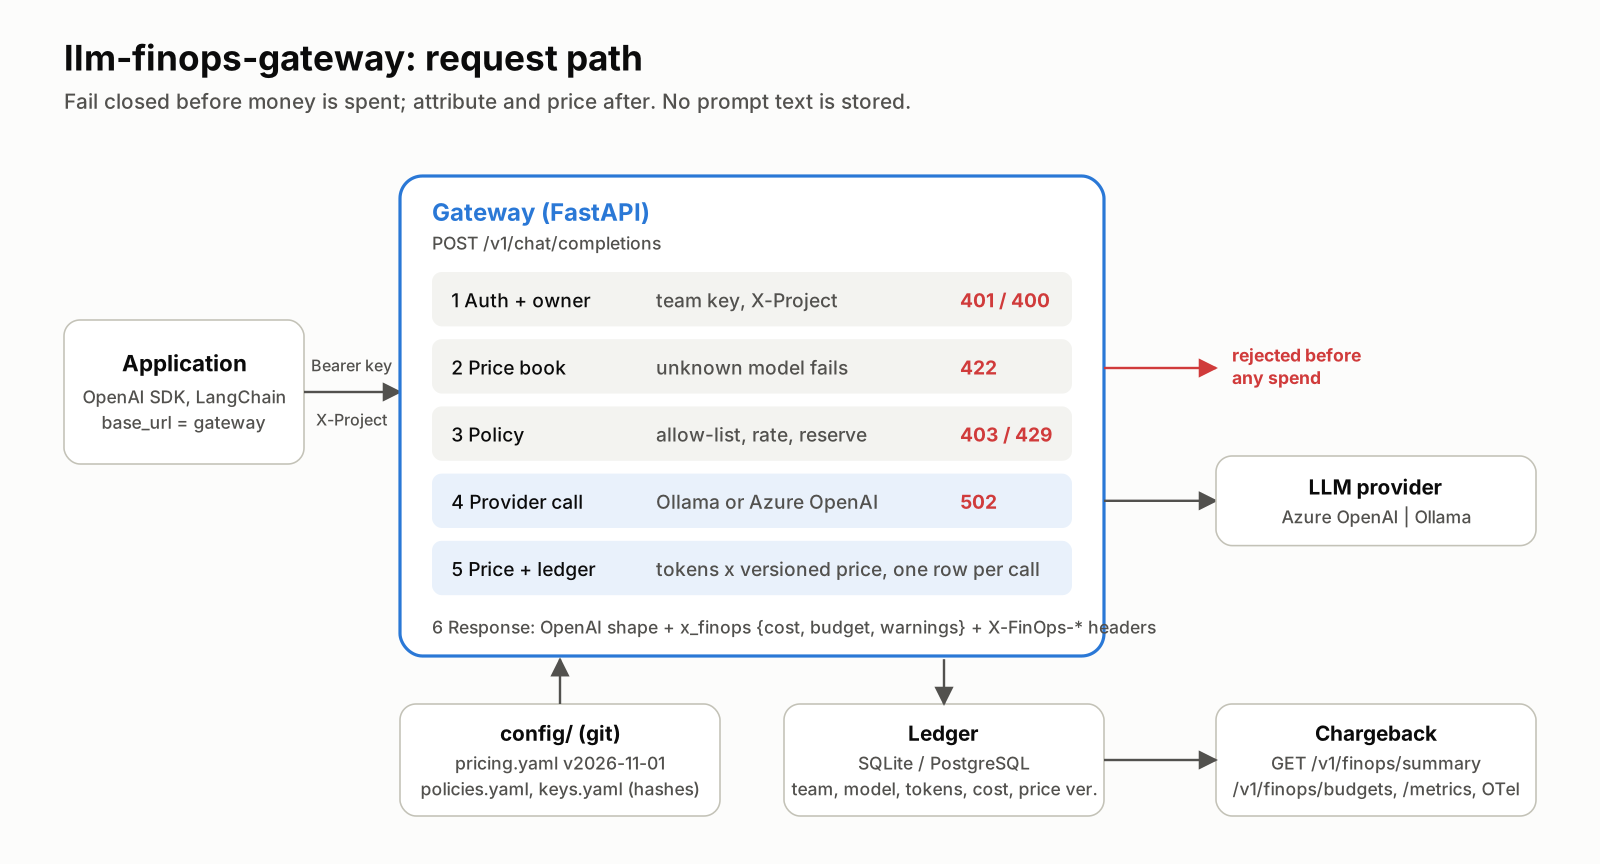
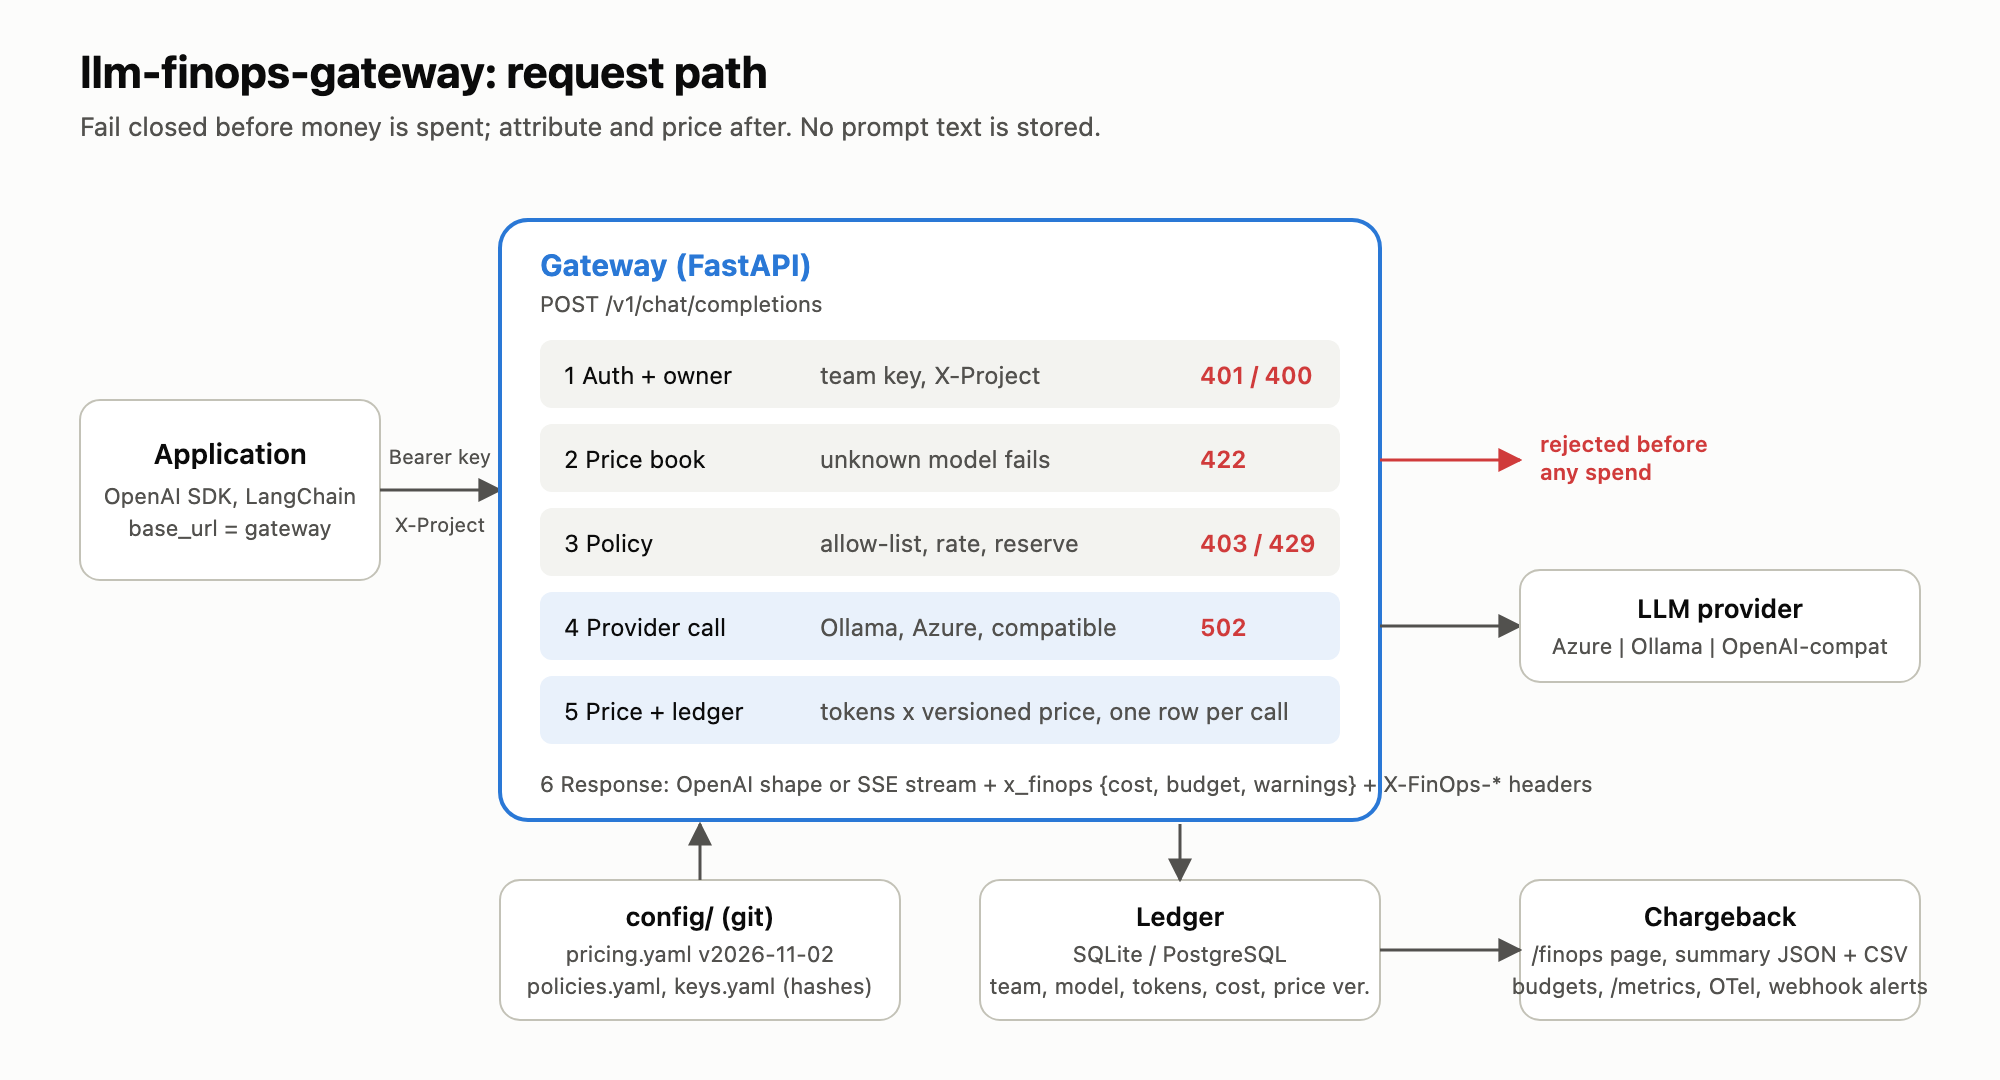
docs: report screenshot with ok, warn and block; architecture doc and diagram brought up to date
- Report page screenshot: customer-support and shadow-it blocked at exactly 100 %, platform
  and research in warn, marketing ok, all from real traffic under a screenshot policy.
- docs/architecture.md: request path with per-model providers, streaming, 429 pass-through,
  alerts; modules, data model (cached_input_tokens, currency), cost model, Azure deployment
  shape with managed identity, Power BI, managed Prometheus/Grafana, webhooks.
- architecture.svg/png: provider labels, price book version, streaming, chargeback outputs.
- demo-chargeback.png regenerated from the current simulated demo.

diff --git a/docs/architecture.md b/docs/architecture.md
@@ -12,28 +12,37 @@
 │            │                                    │  2. policy: allow-list       ── 403 │
 │            │                                    │     rate limit               ── 429 │
 │            │                                    │     reserve(estimate)        ── 403 │
-│            │                                    │  3. provider.chat(...)       ── 502 │
-│            │                                    │     (release reservation)           │
+│            │                                    │  3. provider.chat / .stream  ── 502 │
+│            │                                    │     (release reservation)    ── 429 │
 │            │                                    │  4. price_book.cost(tokens)         │
 │            │ ◀──────────────────────────────────│  5. ledger.record + settle (1 txn)  │
-│            │  OpenAI response + x_finops        │  6. budget_status -> headers, body  │
+│            │  OpenAI response + x_finops,       │  6. budget_status -> headers, body  │
+│            │  or SSE with x_finops at the end   │     alerts on warn / block          │
 └────────────┘                                    └──────┬──────────────┬───────────────┘
                                                          │              │
-                                              ┌──────────▼───┐   ┌──────▼────────────────┐
-                                              │ Provider     │   │ Ledger (SQLAlchemy)   │
-                                              │ Ollama       │   │ cost_records          │
-                                              │ Azure OpenAI │   │ SQLite / Postgres ... │
-                                              └──────────────┘   └───────────────────────┘
+                                      ┌──────────────────▼───┐   ┌──────▼────────────────┐
+                                      │ Providers (per model)│   │ Ledger (SQLAlchemy)   │
+                                      │ Ollama               │   │ cost_records          │
+                                      │ Azure OpenAI         │   │ budget_counters       │
+                                      │ (key or Entra ID)    │   │ SQLite / Postgres ... │
+                                      │ any OpenAI-compatible│   └───────────────────────┘
+                                      └──────────────────────┘
 ```
 
 Order matters: steps 0 to 2 fail **before** any money is spent. Step 3 failures are surfaced as
-HTTP 502 with the provider name; nothing is written to the ledger and the budget reservation
-is released. Step 2 reserves the call's estimated cost atomically (ADR-0007); step 5 settles
+HTTP 502 with the provider name (an upstream 429 as 429 with `Retry-After`); nothing is written
+to the ledger and the budget reservation is released. The provider for a model comes from the
+price book row (`provider:`), the default from `LFG_PROVIDER` (ADR-0011). With `stream: true`
+step 3 streams chunks to the client and steps 4 to 6 run on the final usage chunk (ADR-0012). Step 2 reserves the call's estimated cost atomically (ADR-0007); step 5 settles
 the actual cost and the ledger row in one transaction; step 6 re-reads the counter so the
 response reflects the state including this call. Prometheus counters and the OpenTelemetry
 span are updated along the way (`metrics.py`, `telemetry.py`).
 
-A rendered version of this flow is in `images/architecture.svg`.
+A rendered version of this flow is in `images/architecture.svg`. Around the request path:
+`/finops` (HTML), `/v1/finops/summary(.csv)` and `/v1/finops/budgets` read the ledger behind one
+access rule (ADR-0016); `/metrics` and OpenTelemetry spans are written along the way; webhook
+alerts fire on budget warn/block and upstream failures (ADR-0017); `pricing sync` keeps the price
+book at Azure's list prices offline (ADR-0013).
 
 ## Modules
 
@@ -48,15 +57,15 @@ A rendered version of this flow is in `images/architecture.svg`.
 | `metrics.py`                | Prometheus registry per app instance, `/metrics`                        |
 | `telemetry.py`              | Optional OpenTelemetry provider, `finops.*` span attributes             |
 | `ledger.py`                 | `CostRecord` and `BudgetCounter` tables; record/settle, reserve, release, summary |
-| `providers/base.py`         | `Provider` protocol, `CompletionResult`, `ProviderError`                |
+| `providers/base.py`         | `Provider` protocol (`chat`, `stream`), `CompletionResult`, `StreamChunk`, `ProviderError`, OpenAI usage/SSE mapping |
 | `providers/ollama.py`       | Adapter for Ollama `/api/chat`                                          |
-| `providers/azure_openai.py` | Adapter for Azure OpenAI data-plane REST with deployment mapping        |
+| `providers/azure_openai.py` | Adapter for Azure OpenAI data-plane REST with deployment mapping; API key or Entra ID token (`providers/azure_identity.py`, ADR-0014) |
 | `providers/openai_compat.py` | Adapter for any OpenAI Chat Completions server: Azure OpenAI v1, vLLM, LocalAI, OpenAI (ADR-0010) |
 | `pricing_sync.py`           | `pricing sync`: Azure Retail Prices meters matched to price book rows, report and in-place rewrite (ADR-0013) |
 | `report.py`                 | `/finops` HTML page, CSV summary, report access scope (ADR-0016) |
 | `alerts.py`                 | Webhook alerts for budget warn/block and upstream failures, cooldown, background delivery (ADR-0017) |
 | `main.py`                   | `create_app()` factory, endpoints, error handlers, model-to-provider routes (ADR-0004, 0011) |
-| `cli.py`                    | `llm-finops-gateway serve` and `keys new | hash | check`                |
+| `cli.py`                    | `llm-finops-gateway serve`, `keys new | hash | check`, `pricing sync`, `alerts test` |
 
 ## Data model
 
@@ -72,7 +81,8 @@ A rendered version of this flow is in `images/architecture.svg`.
 | `key_id`             | str, nullable  | which team key was used (ADR-0006)          |
 | `provider`, `model`  | str            | `model` indexed                             |
 | `input_tokens`, `output_tokens` | int |                                             |
-| `cost_usd`           | numeric(14,8)  | exact decimal                               |
+| `cached_input_tokens` | int           | part of `input_tokens` served from the provider's prompt cache |
+| `cost_usd`           | numeric(14,8)  | exact decimal, in the price book's currency |
 | `price_book_version` | str            | the version used to price this row          |
 
 `budget_counters` (one row per team and UTC month): `spent_usd`, `reserved_usd`. Enforcement
@@ -82,22 +92,27 @@ No prompt or completion text is stored.
 
 ## Cost model
 
-`cost = (input_tokens * input_price + output_tokens * output_price) / 1_000_000`, computed with
-`decimal.Decimal` from string-parsed YAML values so that `0.15` is exactly `0.15`. Prices are
-USD per million tokens, matching how providers publish them.
+`cost = ((input_tokens - cached) * input_price + cached * cached_input_price + output_tokens *
+output_price) / 1_000_000`, computed with `decimal.Decimal` from string-parsed YAML values so
+that `0.15` is exactly `0.15`. Prices are per million tokens in the book's `currency`, matching
+how providers publish them; reasoning tokens are part of `output_tokens`. A row's `reasoning:
+true` switches the request to `max_completion_tokens`; `provider:` picks the adapter.
 
 ## Deployment shape (target)
 
 ```
 Azure Container Apps ── llm-finops-gateway ──▶ Azure OpenAI (private endpoint)
-        │                     │
-   Key Vault (api key)   Azure Database for PostgreSQL (ledger)
-                              │
-                        Grafana / Power BI (chargeback)
+   managed identity         │   │                 role: Cognitive Services OpenAI User
+   (no provider key)        │   └── /finops, /v1/finops/* ──▶ Power BI (chargeback)
+   Key Vault (team keys)    │
+                     Azure Database for PostgreSQL (ledger)
+   /metrics ──▶ Azure Monitor managed Prometheus ──▶ Azure Managed Grafana (dashboard)
+   alerts  ──▶ Slack / Teams webhook
 ```
 
-The Terraform module for this is on the roadmap. Until then: run the container anywhere
-with the `LFG_*` variables set and `LFG_DATABASE_URL` pointing at a persistent database.
+The Bicep or Terraform module for this is on the roadmap. Until then: run the container
+anywhere with the `LFG_*` variables set and `LFG_DATABASE_URL` pointing at a persistent
+database; `docs/reporting.md` maps each view to its Azure service.
 
 ## Roadmap mapping
 
@@ -107,5 +122,4 @@ with the `LFG_*` variables set and `LFG_DATABASE_URL` pointing at a persistent d
 | OIDC attribution            | Third branch in `resolve_attribution`: JWT from Keycloak or Entra, team from a claim |
 | PII policy                  | Additional check inside step 2, same policy file             |
 | Shared rate limits          | Token bucket row in the database or Redis, replacing the in-memory window |
-| JWT attribution (later)     | A third branch in `resolve_attribution`, same `Attribution` value |
 | Amortised self-hosted cost  | Price book entries with hourly rate and a throughput model   |

diff --git a/CHANGELOG.md b/CHANGELOG.md
@@ -73,8 +73,11 @@ is called out here.
   `llm-finops-gateway alerts test` sends one sample event. Report page: the team selector is a
   dropdown with checkboxes; sort order survives a reload.
 
-- Screenshots of the report page and the Grafana dashboard in the README; the local Grafana
-  allows anonymous viewing; stat panels show 0 instead of "No data" when a counter is empty.
+- Screenshots of the report page (ok, warn and block states from real traffic) and the Grafana
+  dashboard in the README; the local Grafana allows anonymous viewing; stat panels show 0
+  instead of "No data" when a counter is empty. Architecture document and diagram updated
+  for providers per model, streaming, Entra ID, reports, alerts and the Azure deployment shape;
+  demo chart regenerated.
 
 ### Changed
 - An upstream 429 is returned as `429 upstream_rate_limited` with the provider's `Retry-After`
